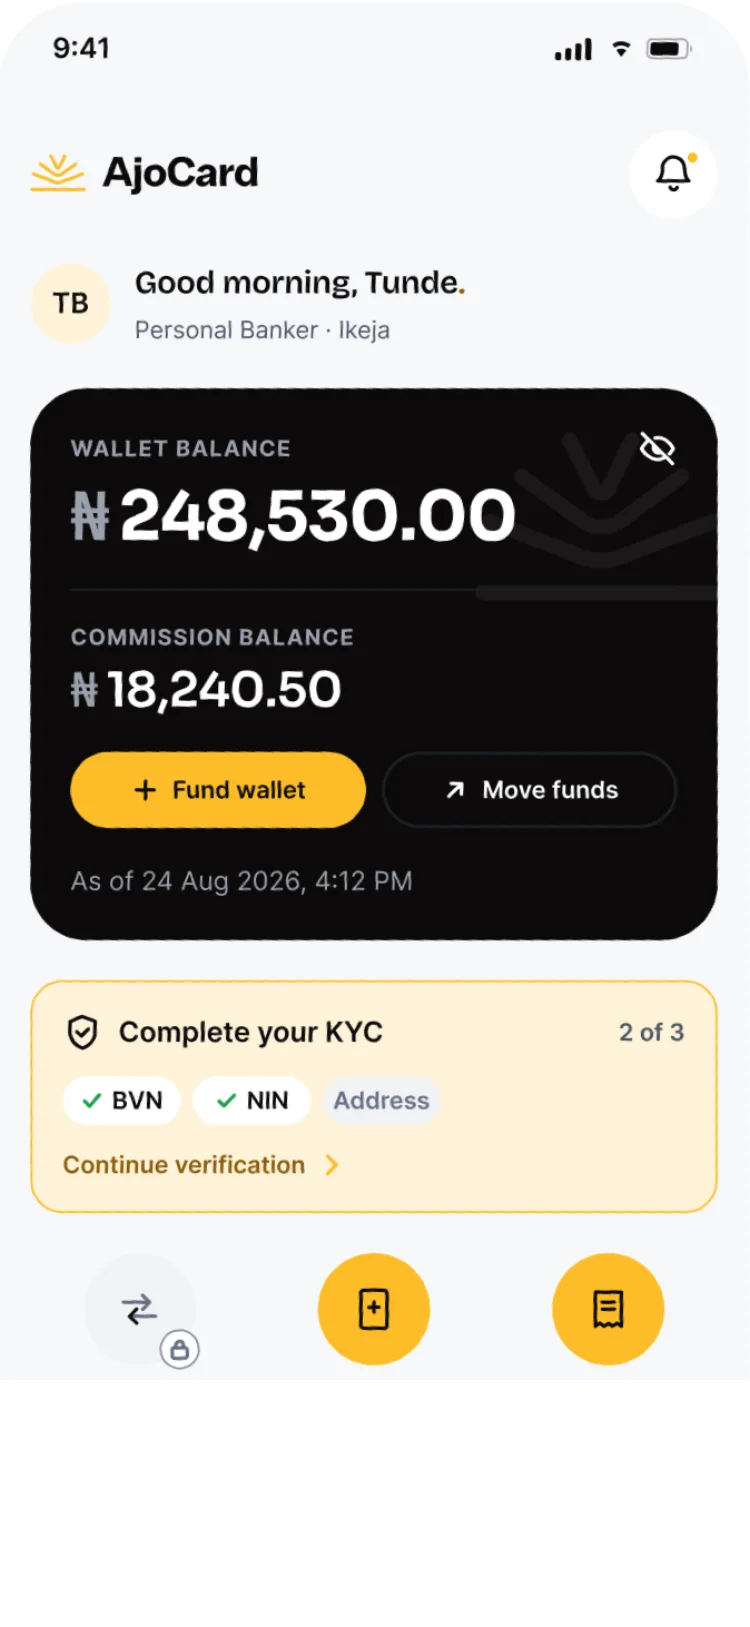
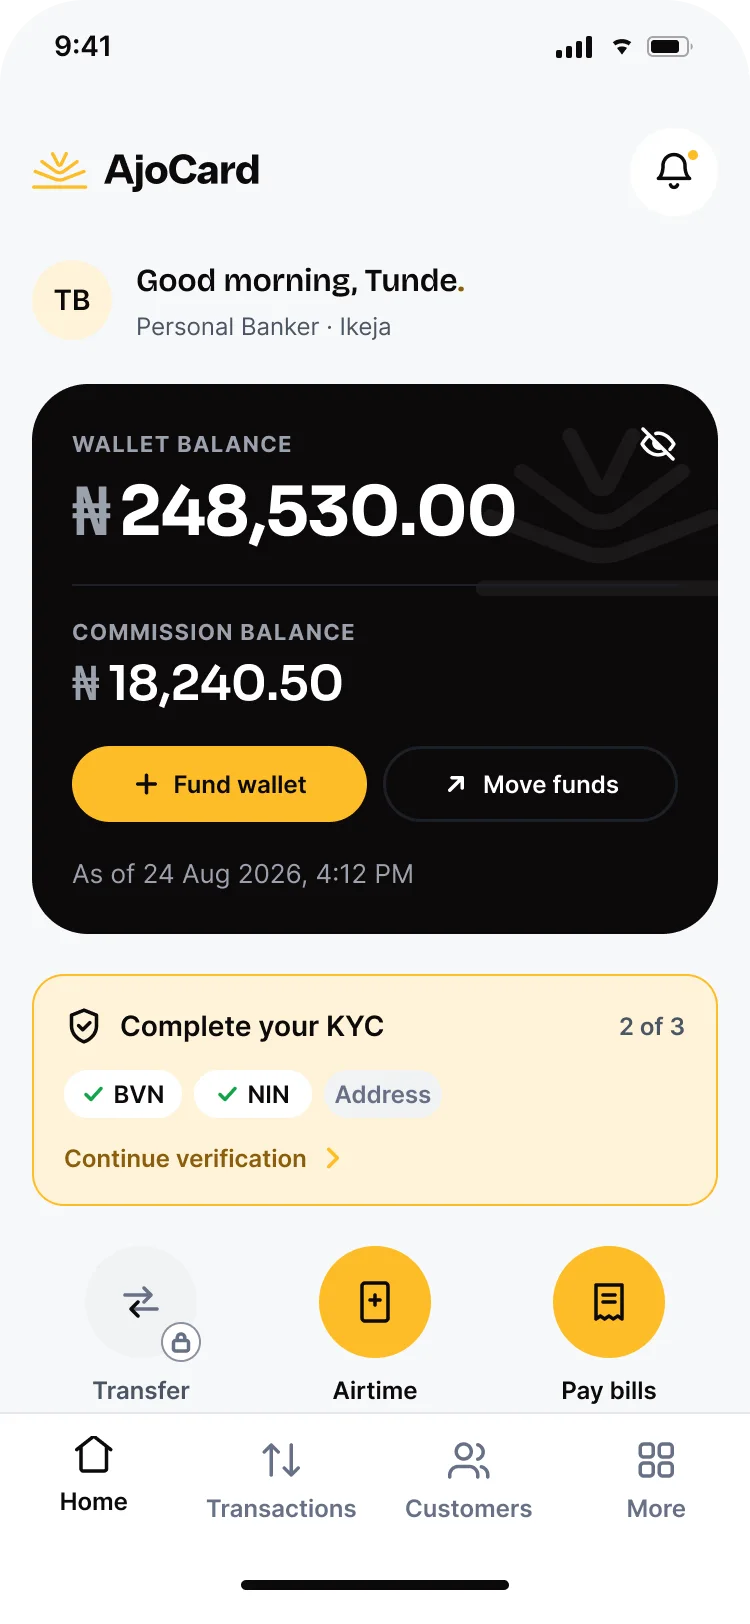
feat: show whole phones at hand size in the work panels
Replace the oversized, cropped phones and the midline band with a calm
text block beside two whole phones about 300px wide. Swap in full 2x
AjoCard and Save Simple screens in their own brand colours.

diff --git a/index.html b/index.html
@@ -67,65 +67,49 @@
             <h2 class="visually-hidden" id="work-title">Apps I've built</h2>
 
             <article class="panel" style="--panel-bg: #14150F; --panel-accent: #D9F36A;">
-                <div class="panel-phones" aria-hidden="true" data-reveal>
-                    <div class="phone phone-back"><img src="images/apps/sp-inbox.webp" width="750" height="1624" alt="" loading="lazy" /></div>
-                    <div class="phone phone-front"><img src="images/apps/sp-home.webp" width="750" height="1624" alt="" loading="lazy" /></div>
-                </div>
-                <div class="panel-band">
+                <div class="panel-text" data-reveal>
                     <h3>Spendory</h3>
-                    <p class="panel-role">My product</p>
-                    <p class="panel-fact">Coming soon to App Store and Google Play</p>
-                </div>
-                <div class="panel-body" data-reveal>
+                    <p class="panel-meta"><span>My product</span><span class="panel-fact">Coming soon to App Store and Google Play</span></p>
                     <p>An expense tracker that fills itself in. Forward your bank's alert emails and each one arrives
                         as a transaction to confirm. I built the Flutter app and the email parser behind it on
                         Supabase.</p>
                 </div>
+                <div class="panel-phones" aria-hidden="true" data-reveal>
+                    <div class="phone phone-back"><img src="images/apps/sp-inbox.webp" width="750" height="1624" alt="" loading="lazy" /></div>
+                    <div class="phone phone-front"><img src="images/apps/sp-home.webp" width="750" height="1624" alt="" loading="lazy" /></div>
+                </div>
             </article>
 
             <article class="panel" style="--panel-bg: #17140B; --panel-accent: #FBBF24;">
+                <div class="panel-text" data-reveal>
+                    <h3>AjoCard</h3>
+                    <p class="panel-meta"><span>Mobile engineer</span><span class="panel-fact">Coming soon to App Store and Google Play</span></p>
+                    <p>A banking app for personal bankers who serve customers face to face. Tap a customer's card to
+                        take savings, send transfers, sell airtime and pay bills, then share the receipt on WhatsApp.</p>
+                </div>
                 <div class="panel-phones" aria-hidden="true" data-reveal>
                     <div class="phone phone-back"><img src="images/apps/aj-transfer.webp" width="750" height="1627" alt="" loading="lazy" /></div>
                     <div class="phone phone-front"><img src="images/apps/aj-home.webp" width="750" height="1627" alt="" loading="lazy" /></div>
                 </div>
-                <div class="panel-band">
-                    <h3>AjoCard</h3>
-                    <p class="panel-role">Mobile engineer</p>
-                    <p class="panel-fact">Coming soon to App Store and Google Play</p>
-                </div>
-                <div class="panel-body" data-reveal>
-                    <p>A banking app for personal bankers who serve customers face to face. Tap a customer's card to
-                        take savings, send transfers, sell airtime and pay bills, then share the receipt on WhatsApp.</p>
-                </div>
             </article>
 
             <article class="panel" style="--panel-bg: #0E1A2B; --panel-accent: #4A9BE8;">
+                <div class="panel-text" data-reveal>
+                    <h3>Save Simple</h3>
+                    <p class="panel-meta"><span>Mobile engineer</span><span class="panel-fact">Coming soon to App Store and Google Play</span></p>
+                    <p>The lending side of the same idea. Personal bankers onboard customers in minutes, take savings
+                        with a card tap, and run each loan from application to repayment.</p>
+                </div>
                 <div class="panel-phones" aria-hidden="true" data-reveal>
                     <div class="phone phone-back"><img src="images/apps/ss-lending.webp" width="750" height="1627" alt="" loading="lazy" /></div>
                     <div class="phone phone-front"><img src="images/apps/ss-home.webp" width="750" height="1627" alt="" loading="lazy" /></div>
                 </div>
-                <div class="panel-band">
-                    <h3>Save Simple</h3>
-                    <p class="panel-role">Mobile engineer</p>
-                    <p class="panel-fact">Coming soon to App Store and Google Play</p>
-                </div>
-                <div class="panel-body" data-reveal>
-                    <p>The lending side of the same idea. Personal bankers onboard customers in minutes, take savings
-                        with a card tap, and run each loan from application to repayment.</p>
-                </div>
             </article>
 
             <article class="panel" style="--panel-bg: #0B1A14; --panel-accent: #46BA84;">
-                <div class="panel-phones" aria-hidden="true" data-reveal>
-                    <div class="phone phone-back"><img src="images/apps/contree-2.webp" width="750" height="1640" alt="" loading="lazy" /></div>
-                    <div class="phone phone-front"><img src="images/apps/contree-1.webp" width="750" height="1640" alt="" loading="lazy" /></div>
-                </div>
-                <div class="panel-band">
+                <div class="panel-text" data-reveal>
                     <h3>Contree</h3>
-                    <p class="panel-role">Founding mobile engineer</p>
-                    <p class="panel-fact">On App Store and Google Play</p>
-                </div>
-                <div class="panel-body" data-reveal>
+                    <p class="panel-meta"><span>Founding mobile engineer</span><span class="panel-fact">On App Store and Google Play</span></p>
                     <p>Group contributions with a clear record for everyone in the group. I built the whole mobile app
                         on my own, from the first commit to both stores.</p>
                     <p class="panel-links">
@@ -133,19 +117,16 @@
                         <a href="https://play.google.com/store/apps/details?id=com.contreeapp.app" rel="noopener noreferrer" target="_blank">Google Play</a>
                     </p>
                 </div>
+                <div class="panel-phones" aria-hidden="true" data-reveal>
+                    <div class="phone phone-back"><img src="images/apps/contree-2.webp" width="750" height="1640" alt="" loading="lazy" /></div>
+                    <div class="phone phone-front"><img src="images/apps/contree-1.webp" width="750" height="1640" alt="" loading="lazy" /></div>
+                </div>
             </article>
 
             <article class="panel" style="--panel-bg: #0E1430; --panel-accent: #5B8CFF;">
-                <div class="panel-phones" aria-hidden="true" data-reveal>
-                    <div class="phone phone-back"><img src="images/apps/tellerone-2.webp" width="750" height="1640" alt="" loading="lazy" /></div>
-                    <div class="phone phone-front"><img src="images/apps/tellerone-1.webp" width="750" height="1640" alt="" loading="lazy" /></div>
-                </div>
-                <div class="panel-band">
+                <div class="panel-text" data-reveal>
                     <h3>TellerOne</h3>
-                    <p class="panel-role">Flutter developer</p>
-                    <p class="panel-fact">On App Store and Google Play</p>
-                </div>
-                <div class="panel-body" data-reveal>
+                    <p class="panel-meta"><span>Flutter developer</span><span class="panel-fact">On App Store and Google Play</span></p>
                     <p>A digital bank for holding, saving, spending and sending money in several currencies, with
                         cards, savings goals and overdrafts. I built transfers, onboarding and transaction history.</p>
                     <p class="panel-links">
@@ -153,25 +134,26 @@
                         <a href="https://play.google.com/store/apps/details?id=co.tellerone.app" rel="noopener noreferrer" target="_blank">Google Play</a>
                     </p>
                 </div>
+                <div class="panel-phones" aria-hidden="true" data-reveal>
+                    <div class="phone phone-back"><img src="images/apps/tellerone-2.webp" width="750" height="1640" alt="" loading="lazy" /></div>
+                    <div class="phone phone-front"><img src="images/apps/tellerone-1.webp" width="750" height="1640" alt="" loading="lazy" /></div>
+                </div>
             </article>
 
             <article class="panel" style="--panel-bg: #1C1222; --panel-accent: #C9A0D6;">
-                <div class="panel-phones" aria-hidden="true" data-reveal>
-                    <div class="phone phone-back"><img src="images/apps/ijot-2.webp" width="750" height="1629" alt="" loading="lazy" /></div>
-                    <div class="phone phone-front"><img src="images/apps/ijot-1.webp" width="750" height="1629" alt="" loading="lazy" /></div>
-                </div>
-                <div class="panel-band">
+                <div class="panel-text" data-reveal>
                     <h3>iJot</h3>
-                    <p class="panel-role">My product</p>
-                    <p class="panel-fact">On Google Play and the web</p>
-                </div>
-                <div class="panel-body" data-reveal>
+                    <p class="panel-meta"><span>My product</span><span class="panel-fact">On Google Play and the web</span></p>
                     <p>A quick notes app that works offline and syncs the moment you're back online, with a web
                         version that stays in step with your phone.</p>
                     <p class="panel-links">
                         <a href="https://play.google.com/store/apps/details?id=com.jabguru.iJot&hl=en" rel="noopener noreferrer" target="_blank">Google Play</a>
                         <a href="https://ijot-1da7a.web.app/" rel="noopener noreferrer" target="_blank">Web app</a>
                     </p>
+                </div>
+                <div class="panel-phones" aria-hidden="true" data-reveal>
+                    <div class="phone phone-back"><img src="images/apps/ijot-2.webp" width="750" height="1629" alt="" loading="lazy" /></div>
+                    <div class="phone phone-front"><img src="images/apps/ijot-1.webp" width="750" height="1629" alt="" loading="lazy" /></div>
                 </div>
             </article>
         </section>

diff --git a/styles.css b/styles.css
@@ -383,139 +383,99 @@ h3 {
 }
 
 /* ==========================================================================
-   Work panels: each one slides over the last
+   Work panels: text on the left, two whole phones at about hand size
    ========================================================================== */
 .panel {
-    position: relative;
-    height: 100svh;
-    min-height: 640px;
-    overflow: hidden;
-    background: var(--panel-bg);
-}
-
-.panel-phones {
-    position: absolute;
-    inset: 0;
-}
-
-.panel-phones .phone {
-    position: absolute;
-}
-
-.panel-phones .phone-front {
-    left: 52.8%;
-    top: 22%;
-    width: min(37.3vw, 66svh);
-}
-
-.panel-phones .phone-back {
-    left: 79.9%;
-    top: 13%;
-    width: min(30.7vw, 55svh);
-}
-
-/* The row never moves, so scrolling reads like turning plates */
-.panel-band {
-    position: absolute;
-    left: 0;
-    right: 0;
-    top: 50%;
-    margin-top: -48px;
+    --phone-w: clamp(220px, min(20.8vw, 34svh), 320px);
     display: grid;
-    grid-template-columns: 38.9% 1fr auto;
+    grid-template-columns: minmax(0, 1fr) auto;
     align-items: center;
-    min-height: 96px;
-    padding: 0 var(--margin);
+    gap: 48px;
+    min-height: 100svh;
+    padding: 64px var(--margin);
     background: var(--panel-bg);
 }
 
-.panel-band h3 {
+.panel-text {
+    max-width: 460px;
+}
+
+.panel-text h3 {
     font-size: var(--step-head);
     font-weight: 300;
     line-height: 1;
     letter-spacing: -0.015em;
 }
 
-.panel-role,
-.panel-fact {
+.panel-meta {
+    display: grid;
+    gap: 4px;
+    margin: 20px 0 32px;
     font-size: var(--step-small);
-}
-
-.panel-role {
     color: var(--muted);
 }
 
 .panel-fact {
     color: var(--panel-accent);
-    text-align: right;
-}
-
-.panel-body {
-    position: absolute;
-    left: var(--margin);
-    top: calc(50% + 112px);
-    max-width: min(460px, 46%);
-    display: grid;
-    gap: 24px;
 }
 
 .panel-links {
     display: flex;
     gap: 28px;
+    margin-top: 24px;
     font-size: var(--step-small);
     font-weight: 500;
 }
 
-@media (max-width: 767px) {
+/* The second phone sits a step lower, so the pair reads as one composition */
+.panel-phones {
+    display: flex;
+    align-items: flex-start;
+    gap: 36px;
+}
+
+.panel-phones .phone {
+    flex: none;
+    width: var(--phone-w);
+}
+
+.panel-phones .phone-front {
+    order: -1;
+}
+
+.panel-phones .phone-back {
+    margin-top: calc(var(--phone-w) * 0.2);
+}
+
+@media (max-width: 899px) {
     .panel {
-        position: relative;
-        height: auto;
+        grid-template-columns: 1fr;
+        gap: 36px;
         min-height: 0;
-        padding-bottom: 56px;
+        padding: 48px var(--margin) 64px;
     }
 
     .panel-phones {
-        height: 412px;
-        position: relative;
-        overflow: hidden;
+        order: -1;
+        justify-content: center;
     }
 
-    .panel-phones .phone-back {
-        display: none;
+    .panel-phones .phone {
+        width: 250px;
     }
 
-    .panel-phones .phone-front {
-        left: 50%;
-        top: 48px;
-        width: 324px;
-        transform: translateX(-50%);
-    }
-
-    .panel-band,
-    .panel-body {
-        position: static;
-        margin-top: 0;
-    }
-
-    .panel-band {
-        display: flex;
-        flex-direction: column;
-        align-items: flex-start;
-        gap: 12px;
-        padding-top: 30px;
-    }
-
-    .panel-band h3 {
+    .panel-text h3 {
         font-size: 2.5rem;
     }
 
-    .panel-fact {
-        text-align: left;
+    .panel-meta {
+        margin: 12px 0 16px;
     }
+}
 
-    .panel-body {
-        max-width: none;
-        padding: 12px var(--margin) 0;
+@media (max-width: 599px) {
+    .panel-phones .phone-back {
+        display: none;
     }
 }
 
